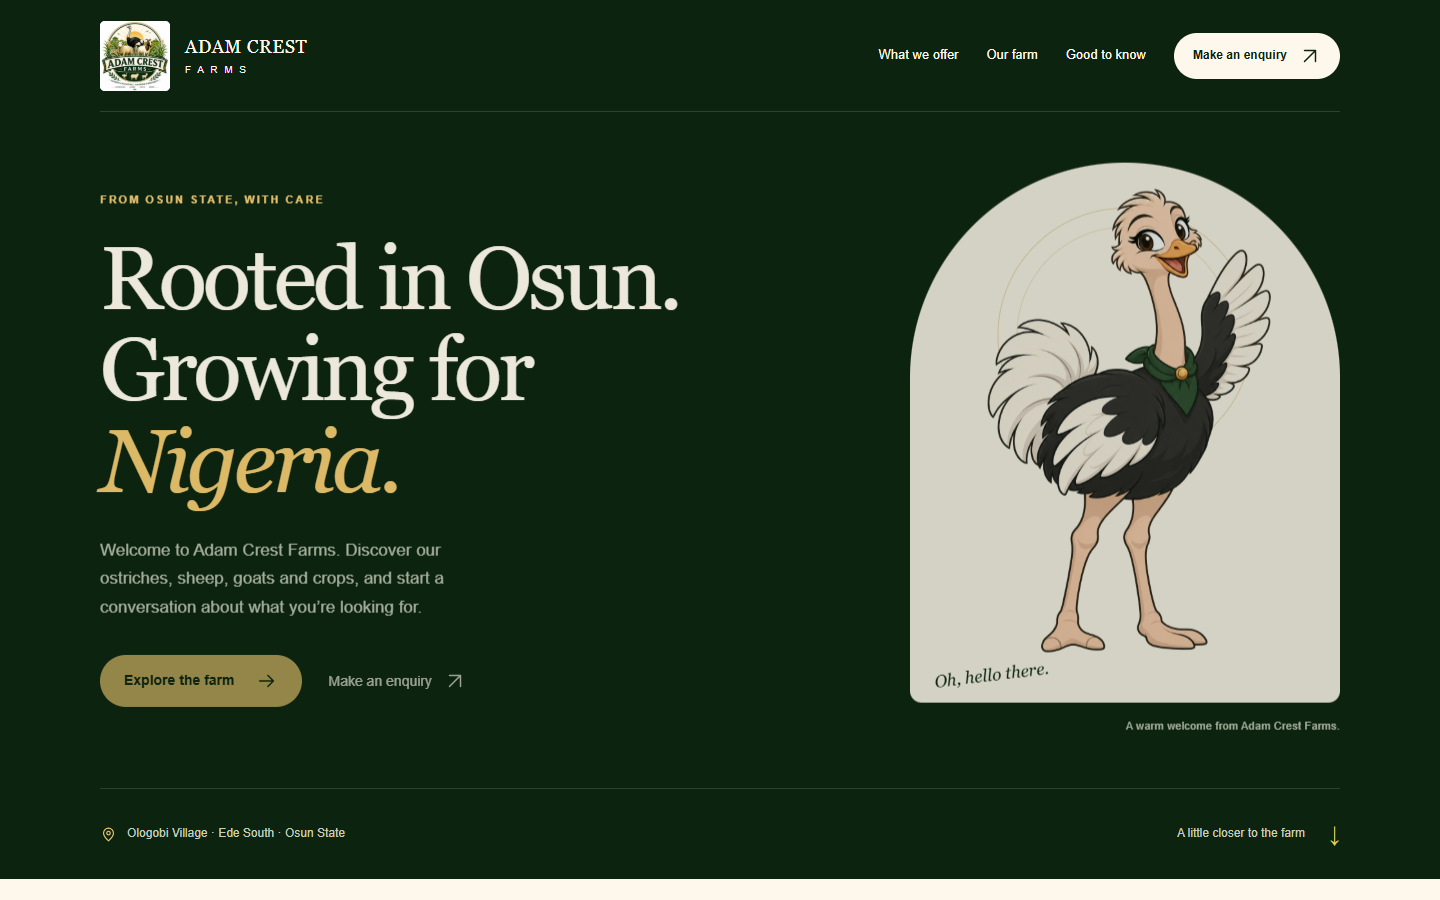
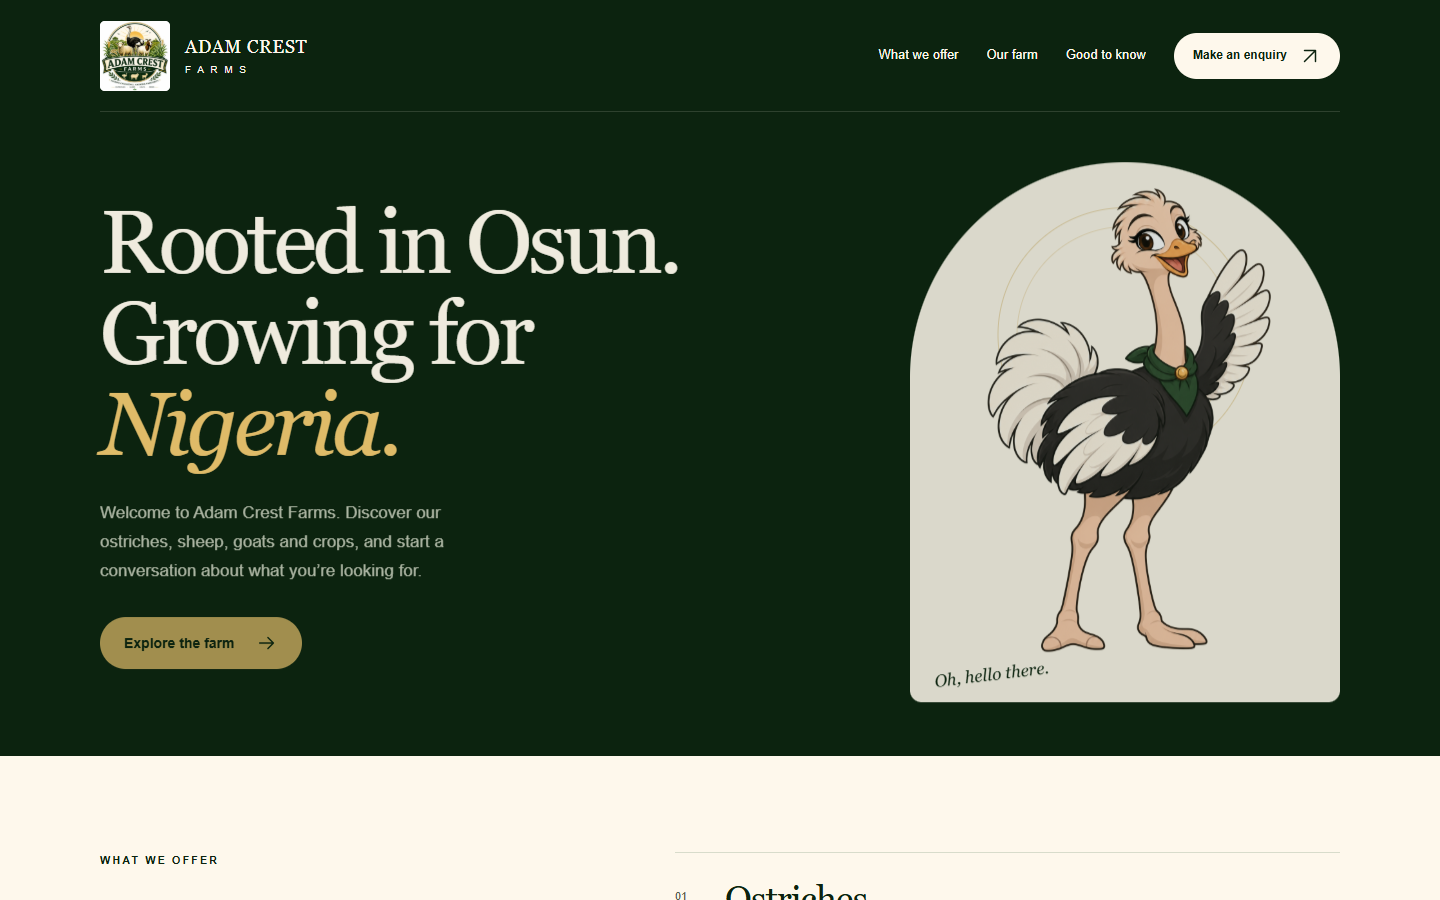
Remove annotated redundant website copy

diff --git a/public/index.html b/public/index.html
@@ -33,10 +33,10 @@
       <div class="opening">
       <section class="hero wrap" aria-labelledby="hero-title">
         <div class="hero-copy">
-          <p class="eyebrow entrance">FROM OSUN STATE, WITH CARE</p>
+
           <h1 id="hero-title" class="entrance">Rooted in Osun.<br>Growing for<br><em>Nigeria.</em></h1>
           <p class="hero-intro entrance">Welcome to Adam Crest Farms. Discover our ostriches, sheep, goats and crops, and start a conversation about what you’re looking for.</p>
-          <div class="hero-actions entrance"><a class="button button-gold" href="#offerings">Explore the farm <svg class="icon" aria-hidden="true" focusable="false"><use href="#arrow"/></svg></a><a class="text-link" href="#enquire">Make an enquiry <svg class="icon" aria-hidden="true" focusable="false"><use href="#external"/></svg></a></div>
+          <div class="hero-actions entrance"><a class="button button-gold" href="#offerings">Explore the farm <svg class="icon" aria-hidden="true" focusable="false"><use href="#arrow"/></svg></a></div>
         </div>
         <div class="hero-art entrance">
           <div class="mascot-stage">
@@ -45,10 +45,10 @@
             <img class="mascot" src="assets/mascot/ostrich-greeting.png" width="1024" height="1536" alt="Our friendly ostrich mascot, wearing a green neckerchief and raising a wing in welcome" fetchpriority="high">
             <span class="stage-note" aria-hidden="true">Oh, hello there.</span>
           </div>
-          <p class="art-caption">A warm welcome from Adam Crest Farms.</p>
+
         </div>
       </section>
-      <div class="place-strip wrap"><span><svg class="icon" aria-hidden="true" focusable="false"><use href="#pin"/></svg> Ologobi Village · Ede South · Osun State</span><a href="#offerings">A little closer to the farm <span aria-hidden="true">↓</span></a></div>
+
   </div>
 
       <section id="offerings" class="offerings section wrap" aria-labelledby="offerings-title">
@@ -62,8 +62,8 @@
       </section>
 
       <section id="our-farm" class="farm-section" aria-labelledby="farm-title"><div class="wrap section farm-grid">
-        <div class="roots-panel"><p class="eyebrow">OUR ROOTS</p><p class="roots-name">Osun<span>State.</span></p><div class="field-lines" aria-hidden="true"><i></i><i></i><i></i><i></i><i></i></div><p class="roots-caption">OLOGOBI VILLAGE · EDE SOUTH</p></div>
-        <div class="farm-copy"><p class="eyebrow">MEET ADAM CREST FARMS</p><h2 id="farm-title">A place to grow.<br><em>A farm to know.</em></h2><p class="lead">Rooted in Osun State, but growing for Nigeria.</p><p>Our home is Ologobi Village in Ede South. Our farm brings together ostriches, sheep, goats and crops, with a focus on quality products and healthy, well-fed livestock.</p><p>Whether you know exactly what you’re looking for or want to learn more, we’d like to hear from you.</p><address><svg class="icon" aria-hidden="true" focusable="false"><use href="#pin"/></svg><span>Ologobi Village, Ede South<br>Osun State, Nigeria</span></address><a class="text-link dark-link" href="#enquire">Let’s start a conversation <svg class="icon" aria-hidden="true" focusable="false"><use href="#arrow"/></svg></a></div>
+        <div class="roots-panel"><p class="eyebrow">OUR ROOTS</p><p class="roots-name">Osun<span>State.</span></p><div class="field-lines" aria-hidden="true"><i></i><i></i><i></i><i></i><i></i></div></div>
+        <div class="farm-copy"><h2 id="farm-title">A place to grow.<br><em>A farm to know.</em></h2><p>Our home is Ologobi Village in Ede South. Our farm brings together ostriches, sheep, goats and crops, with a focus on quality products and healthy, well-fed livestock.</p><p>Whether you know exactly what you’re looking for or want to learn more, we’d like to hear from you.</p><a class="text-link dark-link" href="#enquire">Let’s start a conversation <svg class="icon" aria-hidden="true" focusable="false"><use href="#arrow"/></svg></a></div>
       </div></section>
 
       <section id="questions" class="section wrap questions-grid" aria-labelledby="questions-title"><div><p class="eyebrow">GOOD TO KNOW</p><h2 id="questions-title">Before you<br><em>get in touch.</em></h2></div><div class="questions-list">
@@ -73,12 +73,12 @@
       </div></section>
 
       <section id="enquire" class="enquiry-section" aria-labelledby="enquiry-title"><div class="wrap section enquiry-grid">
-        <div class="enquiry-copy"><p class="eyebrow">LET’S TALK FARM</p><h2 id="enquiry-title">What are you<br><em>looking for?</em></h2><p>A good conversation starts with a little detail. Prepare your enquiry here, then copy it and send it to us on Instagram.</p><ol class="enquiry-steps"><li><span>01</span> Choose what interests you.</li><li><span>02</span> Add your details and copy the enquiry.</li><li><span>03</span> Open Instagram and send your message.</li></ol><p id="whatsapp-pending" class="channel-status"><span aria-hidden="true"></span> WhatsApp <span class="status-label">Coming soon</span></p><a id="whatsapp-link" class="button button-gold" href="#enquire" target="_blank" rel="noopener noreferrer" hidden>Continue on WhatsApp <svg class="icon" aria-hidden="true" focusable="false"><use href="#external"/></svg></a><p class="enquiry-note">Product details and next steps are confirmed directly with the farm.</p></div>
-        <div class="enquiry-card"><form id="enquiry-form"><div id="composer-fields" hidden><div class="form-heading"><h3>Your farm enquiry</h3><span>LET’S BEGIN</span></div><label for="product">I’m interested in</label><select id="product" name="product"><option>General enquiry</option><option>Ostriches</option><option>Sheep</option><option>Goats</option><option>Crops</option></select><label for="location">Your location <span>(optional)</span></label><input id="location" name="location" type="text" autocomplete="address-level2" maxlength="120" placeholder="Town or state"><label for="details">What would you like to know? <span>(optional)</span></label><textarea id="details" name="details" rows="3" maxlength="1500" placeholder="Tell us the product, quantity or questions you have…"></textarea><p class="form-privacy">This prepares a message on your device. It doesn’t send or save an enquiry to the farm.</p><button class="button button-forest" type="submit">Prepare my enquiry <svg class="icon" aria-hidden="true" focusable="false"><use href="#arrow"/></svg></button></div><noscript><h3>Start your farm enquiry</h3><p>Open our Instagram profile and send us a message about the products you’re interested in. The message composer needs JavaScript, but the profile link below works without it.</p></noscript></form>
-          <div id="enquiry-result" hidden><label for="enquiry-message">Your prepared message</label><textarea id="enquiry-message" rows="7" readonly></textarea><button id="copy-enquiry" class="button button-forest" type="button">Copy enquiry <svg class="icon" aria-hidden="true" focusable="false"><use href="#arrow"/></svg></button></div><p id="copy-status" class="copy-status" role="status" aria-live="polite"></p><a class="instagram-link" data-instagram href="https://www.instagram.com/adamcrestfarms/" target="_blank" rel="noopener noreferrer"><span>Open Instagram<small>@adamcrestfarms · opens in a new tab</small></span><svg class="icon" aria-hidden="true" focusable="false"><use href="#external"/></svg></a>
+        <div class="enquiry-copy"><h2 id="enquiry-title">What are you<br><em>looking for?</em></h2><ol class="enquiry-steps"><li><span>01</span> Choose what interests you.</li><li><span>02</span> Add your details and copy the enquiry.</li><li><span>03</span> <span class="step-copy"><a data-instagram href="https://www.instagram.com/adamcrestfarms/" target="_blank" rel="noopener noreferrer">Open Instagram</a> and send your message.</span></li></ol><a id="whatsapp-link" class="button button-gold" href="#enquire" target="_blank" rel="noopener noreferrer" hidden>Continue on WhatsApp <svg class="icon" aria-hidden="true" focusable="false"><use href="#external"/></svg></a><p class="enquiry-note">Product details and next steps are confirmed directly with the farm.</p></div>
+        <div class="enquiry-card"><form id="enquiry-form" aria-labelledby="enquiry-title"><div id="composer-fields" hidden><label for="product">I’m interested in</label><select id="product" name="product"><option>General enquiry</option><option>Ostriches</option><option>Sheep</option><option>Goats</option><option>Crops</option></select><label for="location">Your location</label><input id="location" name="location" type="text" autocomplete="address-level2" maxlength="120" placeholder="Town or state"><label for="details">What would you like to know? <span>(optional)</span></label><textarea id="details" name="details" rows="3" maxlength="1500" placeholder="Tell us the product, quantity or questions you have…"></textarea><button class="button button-forest" type="submit">Prepare my enquiry <svg class="icon" aria-hidden="true" focusable="false"><use href="#arrow"/></svg></button></div><noscript><h3>Start your farm enquiry</h3><p>Open our Instagram profile and send us a message about the products you’re interested in. The message composer needs JavaScript, but the social links in the footer work without it.</p></noscript></form>
+          <div id="enquiry-result" hidden><label for="enquiry-message">Your prepared message</label><textarea id="enquiry-message" rows="7" readonly></textarea><button id="copy-enquiry" class="button button-forest" type="button">Copy enquiry <svg class="icon" aria-hidden="true" focusable="false"><use href="#arrow"/></svg></button></div><p id="copy-status" class="copy-status" role="status" aria-live="polite"></p>
         </div>
       </div></section>
     </main>
-    <footer class="site-footer"><div class="wrap"><div class="footer-top"><a class="brand" href="#top" aria-label="Adam Crest Farms home"><img src="assets/brand/adam-crest-farms-logo.jpeg" width="64" height="64" alt="Adam Crest Farms logo"><span aria-hidden="true">ADAM CREST<span class="brand-small">F A R M S</span></span></a><p>Rooted in Osun State.<br>Growing for Nigeria.</p><div class="social-links"><a data-instagram href="https://www.instagram.com/adamcrestfarms/" target="_blank" rel="noopener noreferrer">Instagram <svg class="icon" aria-hidden="true" focusable="false"><use href="#external"/></svg></a><a href="https://www.tiktok.com/@adamcrestfarms" target="_blank" rel="noopener noreferrer">TikTok <svg class="icon" aria-hidden="true" focusable="false"><use href="#external"/></svg></a></div></div><div class="footer-base"><span>© 2026 Adam Crest Farms</span><span>Ologobi Village, Ede South, Osun State</span><a href="#top">Back to top ↑</a></div></div></footer>
+    <footer id="footer" class="site-footer"><div class="wrap"><div class="footer-top"><a class="brand" href="#top" aria-label="Adam Crest Farms home"><img src="assets/brand/adam-crest-farms-logo.jpeg" width="64" height="64" alt="Adam Crest Farms logo"><span aria-hidden="true">ADAM CREST<span class="brand-small">F A R M S</span></span></a><p>Rooted in Osun State.<br>Growing for Nigeria.</p><div class="social-links"><a data-instagram href="https://www.instagram.com/adamcrestfarms/" target="_blank" rel="noopener noreferrer">Instagram <svg class="icon" aria-hidden="true" focusable="false"><use href="#external"/></svg></a><a href="https://www.tiktok.com/@adamcrestfarms" target="_blank" rel="noopener noreferrer">TikTok <svg class="icon" aria-hidden="true" focusable="false"><use href="#external"/></svg></a></div></div><div class="footer-base"><span>© 2026 Adam Crest Farms</span><span>Ologobi Village, Ede South, Osun State</span><a href="#top">Back to top ↑</a></div></div></footer>
 </body>
 </html>

diff --git a/public/styles.css b/public/styles.css
@@ -87,6 +87,7 @@ h1 em { color:var(--highlight); font-weight:400; }
 address { display:flex; align-items:flex-start; gap:12px; font-style:normal; margin:28px 0 12px; font-size:14px; line-height:1.7; }
 address .icon { margin-top:2px; }
 .dark-link { font-weight:600; font-size:13px; }
+.farm-copy .dark-link { margin-top:20px; }
 .questions-grid { display:grid; grid-template-columns:1fr 1.4fr; gap:100px; }
 details { border-top:1px solid var(--line); }
 details:last-child { border-bottom:1px solid var(--line); }
@@ -102,7 +103,8 @@ details p { color:var(--muted); font-size:14px; padding:0 36px 25px 0; }
 .enquiry-copy>p:not(.eyebrow):not(.channel-status) { margin-top:27px; color:var(--muted-light); max-width:370px; }
 .enquiry-steps { list-style:none; padding:0; margin:34px 0 35px; font-size:14px; }
 .enquiry-steps li { display:flex; align-items:baseline; gap:18px; margin:15px 0; }
-.enquiry-steps span { font-size:10px; color:var(--highlight); }
+.enquiry-steps>li>span:first-child { font-size:10px; color:var(--highlight); }
+.step-copy a { text-decoration:underline; text-underline-offset:4px; }
 .channel-status { border-block:1px solid #fef8ec24; padding:18px 0; display:flex; align-items:center; gap:10px; font-size:14px; max-width:370px; }
 .channel-status>span:first-child { width:6px; height:6px; border-radius:50%; background:var(--highlight); }
 .status-label { color:var(--muted-light); margin-left:auto; font-size:11px; }
@@ -128,7 +130,7 @@ input::placeholder,textarea::placeholder { color:#67705F; opacity:1; font-size:1
 .site-footer { background:var(--forest); color:var(--cream); }
 .footer-top { border-top:1px solid #fef8ec24; padding-block:44px; display:flex; align-items:center; justify-content:space-between; gap:28px; }
 .footer-top>p { font-family:Georgia,serif; font-size:20px; line-height:1.4; color:var(--muted-light); }
-.social-links { display:flex; gap:22px; font-size:12px; }
+.social-links { display:flex; flex-wrap:wrap; gap:22px; font-size:12px; }
 .social-links a { display:flex; align-items:center; gap:7px; min-height:44px; }
 .social-links .icon { width:17px; height:17px; }
 .social-links a:hover { text-decoration:underline; }

diff --git a/public/site-config.js b/public/site-config.js
@@ -2,6 +2,6 @@
 window.FARM_CONFIG = Object.freeze({
   instagramUrl: 'https://www.instagram.com/adamcrestfarms/',
   // Add the owner-confirmed international number, digits only, when ready.
-  // Until then the website displays an informational coming-soon state.
+  // Until then the WhatsApp link stays hidden.
   whatsappNumber: null
 });

diff --git a/public/app.js b/public/app.js
@@ -32,7 +32,6 @@
   const whatsappLink = document.querySelector('#whatsapp-link');
   document.querySelector('#composer-fields').hidden = false;
   if (whatsappReady) {
-    document.querySelector('#whatsapp-pending').hidden = true;
     whatsappLink.hidden = false;
     whatsappLink.href = `https://wa.me/${whatsappNumber}`;
   }

diff --git a/docs/QA.md b/docs/QA.md
@@ -11,7 +11,7 @@ Reviewed 10 November 2026 with Microsoft Edge 157.0.4341.42 via local Playwright
 - Keyboard Tab reveals the skip link; Enter moves focus to main. The mobile menu closes with Escape, returns focus and closes after navigation.
 - All four category links preselect the product. Enquiries include optional details, and editing invalidates stale prepared text.
 - Copy works with clipboard permission. With a simulated clipboard failure, the text is selected and manual-copy instructions appear. Windows line endings are normalised only in the test comparison.
-- WhatsApp has no dummy-number link. Its status is Coming soon.
+- WhatsApp has no dummy-number link. Its coming-soon notice was removed following the owner's annotated review; the unconfigured link stays hidden.
 - FAQ disclosures work. Navigation, FAQ and Instagram remain available without JavaScript, with a composer explanation.
 - Reduced-motion mode removes entrance animation. Early and settled desktop screenshots were inspected.
 - Opening public/index.html directly loads the site and prepares an enquiry without a server.
@@ -19,6 +19,14 @@ Reviewed 10 November 2026 with Microsoft Edge 157.0.4341.42 via local Playwright
 Evidence: [review/report.json](review/report.json).
 
 ## Visual review
+
+### Annotated revision, 10 November 2026
+
+Removed every blue-circled element in the supplied hero, farm and enquiry screenshots. Retained the uncircled content, including footer positioning/address and the optional marker on the enquiry-details field. Added spacing before the farm section's remaining contact action. The remaining step-3 Instagram instruction is clickable; the removed contact block has not been reintroduced. Facebook is pending the owner's exact page URL.
+
+The existing five-width browser review passed again, including the enquiry interactions, reduced motion, no-JavaScript fallback and zero common WCAG A/AA findings. Visually inspected the revised desktop hero, farm and enquiry sections, mobile enquiry, and both footer layouts. Updated screenshots are in review/. Earlier screenshots are retained in Git history.
+
+### Initial implementation
 
 Inspected the desktop/mobile opening, full pages, product list, farm section and enquiry section. The supplied logo remains unmodified; the full-body mascot retains its silhouette, aspect ratio and transparency.
 

diff --git a/docs/BRAND_BRIEF.md b/docs/BRAND_BRIEF.md
@@ -37,9 +37,15 @@ Do not invent missing details, prices, opening hours, certifications, testimonia
 
 - Primary purpose: explore the farm and enquire about products. The site is not an online checkout.
 - The owner said the WhatsApp number is not ready and expressly authorised placeholders for this local build.
-- Implementation uses “WhatsApp — Coming soon”, with no fake number or active WhatsApp link. `public/site-config.js` holds a null value until the owner supplies a real number.
+- The initial preview used “WhatsApp — Coming soon”. The owner subsequently marked that notice for removal; WhatsApp now stays hidden. `public/site-config.js` holds a null value until the owner supplies a real number.
 - The supplied Instagram profile is the available link in the local preview. A visitor can prepare and copy an enquiry, then open the profile. Instagram response times, account availability and ordering policy have not been confirmed. No message is sent by the website.
 - Local development and preview only. GitHub publishing and deployment remain separate.
+
+## Annotated copy review
+
+On 10 November 2026, the owner requested removal of the blue-circled labels, repeated location/positioning text, secondary hero enquiry link, form headings, location optional marker, WhatsApp notice, form explanation and separate Instagram contact block. Only the location field's visible optional marker was removed; its input remains optional. The remaining step-3 Instagram text links to the supplied profile so the enquiry flow still works.
+
+The owner also requested Facebook in the footer. The exact Facebook page URL is still required; the saved records contain only the page name, and a public search did not establish a reliable match. Do not guess the address from the other social handles.
 
 ## Source context
 

diff --git a/docs/DESIGN_SPEC.md b/docs/DESIGN_SPEC.md
@@ -4,6 +4,8 @@ Build specification, 10 November 2026. Uses the requested MotionSites specificat
 
 Final review adjustments: the heading has a 90px maximum; the desktop mascot is 330px wide with 35px bottom space; the decorative label behind its head is hidden; the mobile roots title stacks Osun and State. These final values supersede the initial dimensions below where different. See QA.md.
 
+The owner's later annotated review removes the circled hero/farm/enquiry copy, including the hero location strip, repeated positioning/address, form headings, WhatsApp notice and separate Instagram block. The remaining Instagram instruction links directly to the profile. This approved simplification supersedes the original section-copy specification below. The Facebook footer link awaits the exact URL.
+
 ## Purpose and scope
 
 A complete farm introduction and product-enquiry website for end consumers across Nigeria. The owner confirmed the purpose on 10 November 2026. WhatsApp is not ready; placeholders are expressly authorised. Show an honest coming-soon state instead of an invented number. Keep a contact configuration file ready for the real number. The supplied Instagram identity provides a profile link for the preview; do not invent an email or Facebook URL.

diff --git a/README.md b/README.md
@@ -2,7 +2,7 @@
 
 A self-contained, responsive website for exploring the farm and making product enquiries. Implemented and locally reviewed on 10 November 2026. HTML, CSS and browser JavaScript, with no runtime packages, web fonts or external asset requests.
 
-**Status:** local preview ready. Nothing has been published or deployed; no GitHub remote is configured. WhatsApp displays **Coming soon** until the owner supplies a number. Instagram is the contact-profile link used in this preview. Visitors prepare an enquiry locally, copy it, and send it themselves.
+**Status:** local preview ready. Nothing has been published or deployed; no GitHub remote is configured. The owner's annotated copy removals have been applied and reviewed on desktop/mobile. WhatsApp stays hidden until a number is supplied. Instagram is linked in the remaining enquiry steps and footer. Visitors prepare an enquiry locally, copy it, and send it themselves. Adding Facebook to the footer is pending the exact page URL from the owner; the records currently contain only its page name.
 
 ## Open the preview
 
